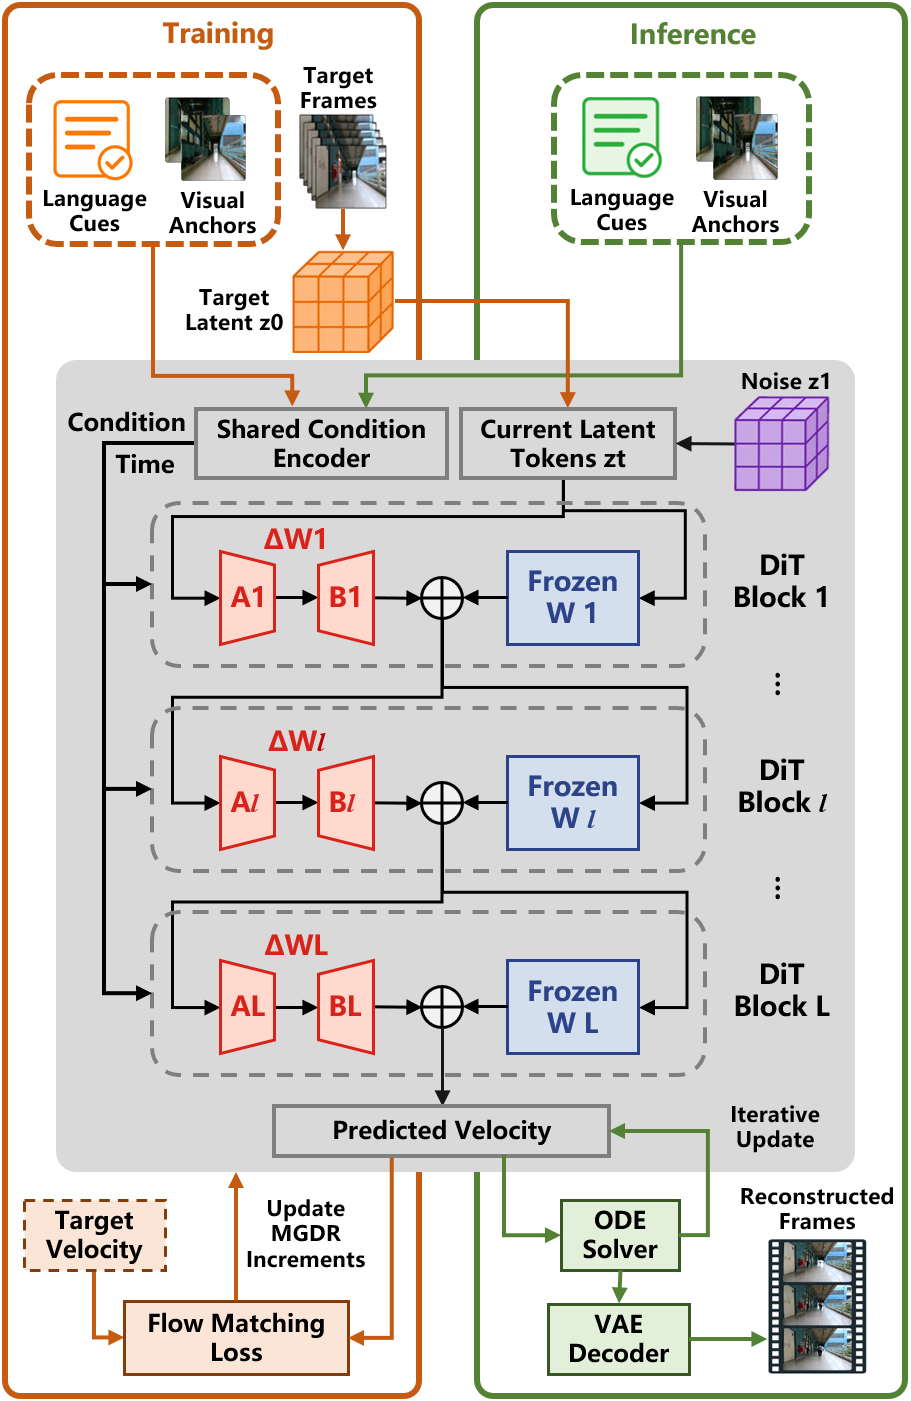
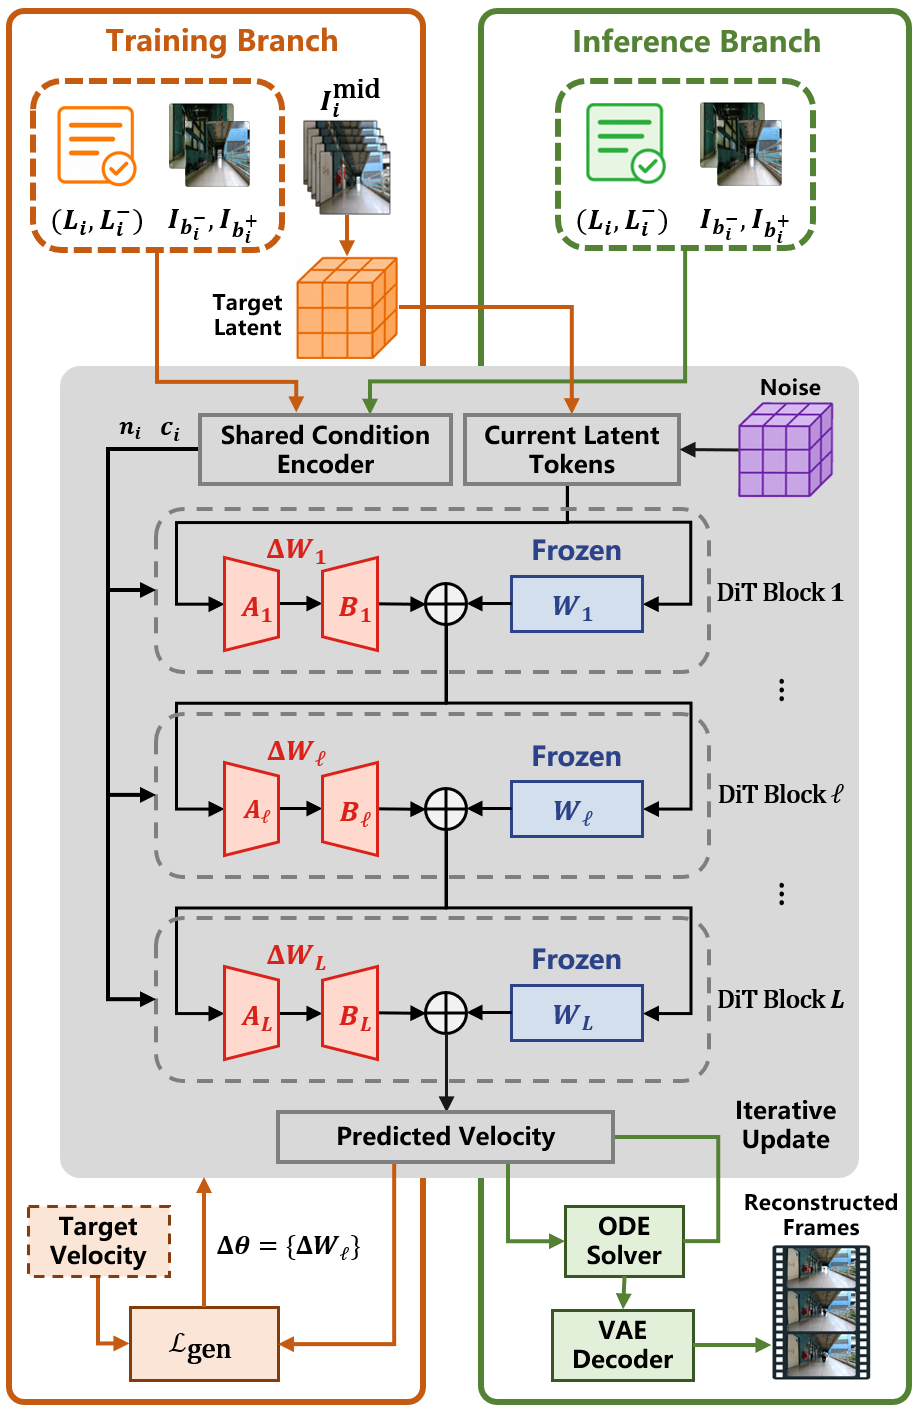
polish fig4 caption and table formatting

Changed region(s): [[0.0, 0.0, 1.0, 1.0], [0.461, 0.399, 0.5225, 0.4297], [0.8299, 0.6138, 0.8606, 0.6445]]

diff --git a/paper/overleaf/tables/tab_exp2_motion_benchmark.tex b/paper/overleaf/tables/tab_exp2_motion_benchmark.tex
@@ -6,15 +6,15 @@
 \centering
 \footnotesize
 \setlength{\tabcolsep}{1.5pt}
-\begin{tabular}{@{}lrrrr@{}}
+\begin{tabular*}{\columnwidth}{@{\extracolsep{\fill}}lcccc@{}}
 \toprule
 Method & Time (s) $\downarrow$ & ms/pair $\downarrow$ & Rel. Cost $\downarrow$ & Valid (\%) $\uparrow$ \\
 \midrule
-Phase Correlation (PC) & 4.51 & 4.70 & 1.00$\times$ & 100.0 \\
+Phase Correlation & 4.51 & 4.70 & 1.00$\times$ & 100.0 \\
 ORB Feature Tracking & 11.73 & 12.22 & 2.60$\times$ & 85.7 \\
-Farneback Optical Flow (OF) & 29.75 & 30.99 & 6.59$\times$ & 100.0 \\
+Farneback Optical Flow & 29.75 & 30.99 & 6.59$\times$ & 100.0 \\
 \bottomrule
-\end{tabular}%
+\end{tabular*}%
 \vspace{0.2em}
 
 \parbox{\columnwidth}{\footnotesize The benchmark is computed on the 40 s GDUT clip with 961 frames, corresponding to 960 adjacent frame pairs. Rel. Cost is normalized by PC runtime. Valid ratio denotes the percentage of adjacent frame pairs that produce usable motion evidence.}

diff --git a/paper/overleaf/tables/tab_exp3_lora_ablation.tex b/paper/overleaf/tables/tab_exp3_lora_ablation.tex
@@ -6,9 +6,9 @@
 \centering
 \footnotesize
 \setlength{\tabcolsep}{2pt}
-\begin{tabular*}{\columnwidth}{@{\extracolsep{\fill}}llrrrrr@{}}
+\begin{tabular*}{\columnwidth}{@{\extracolsep{\fill}}llccccc@{}}
 \toprule
-Data & Dec. & \shortstack{ORI APE (m)\\$\downarrow$} & \shortstack{REC APE (m)\\$\downarrow$} & \shortstack{LPIPS\\$\downarrow$} & \shortstack{SSIM\\$\uparrow$} & \shortstack{FID\\$\downarrow$} \\
+Data & Dec. & ORI APE $\downarrow$ & REC APE $\downarrow$ & LPIPS $\downarrow$ & SSIM $\uparrow$ & FID $\downarrow$ \\
 \midrule
 NCD & WM & 0.142 & 0.539 & 0.270 & 0.593 & 50.151 \\
 NCD & WM+MGDR & 0.142 & \textbf{0.289} & 0.307 & 0.507 & 23.950 \\

diff --git a/paper/overleaf/main.tex b/paper/overleaf/main.tex
@@ -360,7 +360,7 @@ The cloud-side decoder contains two related branches: an inference branch and an
 \begin{figure}[!t]
 \centering
 \includegraphics[width=0.95\columnwidth]{figures/fig4.png}
-\caption{MGDR mechanism for world-model reconstruction. The inference branch reconstructs intermediate frames from transmitted visual anchors and language cues, while the refinement branch constructs MGDR pairs and learns MGDR increments \(\Delta W\) as LoRA-based low-rank increments with the pretrained world model frozen.}
+\caption{MGDR mechanism for world-model reconstruction. The inference branch reconstructs intermediate frames from transmitted visual anchors and language cues, while the refinement branch uses the same conditioning format with target frames to learn MGDR increments \(\Delta\theta=\{\Delta W_\ell\}\) as LoRA-based low-rank updates with the pretrained world model frozen.}
 \label{fig:lora_decoder}
 \end{figure}
 